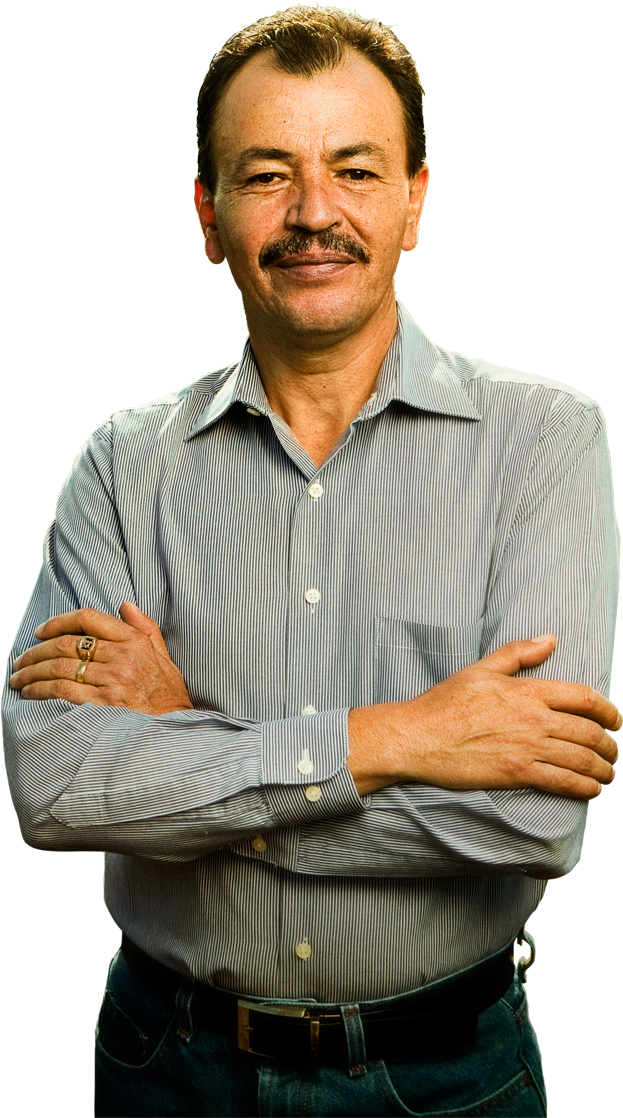
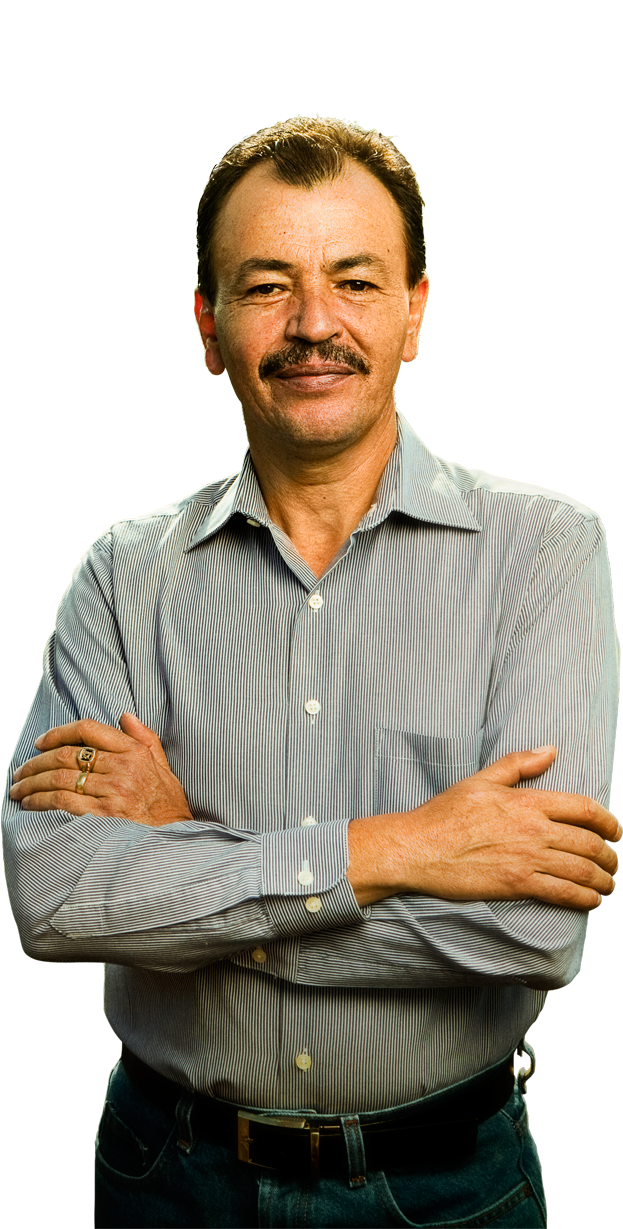
parallax... better

diff --git a/parallax/scripts/parallax.jquery.js b/parallax/scripts/parallax.jquery.js
@@ -5,7 +5,7 @@
   // base Version: 3.0.3
   // Forked by: Alex Aitken
 
-  $.fn.bgParallax = function(settings){;
+  $.fn.bgParallax = function(settings){
   
     var 
       config = {
@@ -14,7 +14,6 @@
       },
       doParallax, //image position reset function
       initialCssPosition = this.css('background-position').match(/\d+/g), //assuming a percent here
-      initialCssSize = this.css('background-size').match(/[\d\.]+/g), //we don't currently set width except for with 'auto', so this will find height %
       initialY,
       parent, //container a/g which bg is sized
       $scrollEl, //local cache var
@@ -29,7 +28,8 @@
     parent = config.parent;
     $scrollEl = config.$scrollEl;
     speed = config.speed; 
-    initialY = initialCssSize ? /*((initialCssPosition[1]/100) * */parent.height()/*)*/ - ((initialCssSize/100) * parent.height()) : 0;
+    initialY = initialCssPosition[1];
+
     
     doParallax = function(){
       
@@ -42,7 +42,7 @@
 
       // Scroll the background
       arguments[1].css({
-        'background-position-y': y+'px'
+        'background-position': initialCssPosition[0]+'px '+y+'px'
       });
     };
     

diff --git a/parallax/index.html b/parallax/index.html
@@ -21,13 +21,19 @@
   <script src="scripts/scaleBg.jquery.js"></script>
   <script src="scripts/parallax.jquery.js"></script>
   <script> 
+
+  <!-- TODO: pull background-position-y  -->
+    $('#one div:eq(1), #one div:eq(2)').css({'background-position-y': $(this).height() * 0.1 +'px'})
+
     $('#one div:eq(0)').bgParallax({speed: 0.05, parent: $('#one')});
     $('#one div:eq(1)').bgParallax({speed: 0.15, parent: $('#one')});
     $('#one div:eq(2)').bgParallax({speed: 0.25, parent: $('#one')});
 
-    <!-- $('#two img:eq(0)').scaleBg(); -->
-    <!-- $('#two img:eq(0)').bgParallax({speed: 1.05}); -->
-    <!-- $('#two img:eq(1)').bgParallax({speed: 1.25}); -->
+
+    $('#two div:eq(1)').css({'background-position-y': $(this).height() * 0.3 +'px'})
+
+    $('#two div:eq(0)').bgParallax({speed: 0.05, parent: $('#two')});
+    $('#two div:eq(1)').bgParallax({speed: 0.25, parent: $('#two')});
   </script>
 
 </body>

diff --git a/parallax/styles/parallax.css b/parallax/styles/parallax.css
@@ -34,14 +34,14 @@ body{
 }
 #one .mg{
   background-image: url(../images/intro-agave.png);
-  background-size: auto 61.35%; /* ...derived from original slice ratios */
-  background-position: right 200%;
+  background-size: auto 100%; /* ...derived from original slice ratios */
+  background-position: right top;
   background-repeat: no-repeat
 }
 #one .fg{
   background-image: url(../images/intro-carlos.png);
-  background-size: auto 90.79%; /* ...derived from original slice ratios */
-  background-position: 80% 120%;
+  background-size: auto 100%; /* ...derived from original slice ratios */
+  background-position: 80% top;
   background-repeat: no-repeat
 }
 
